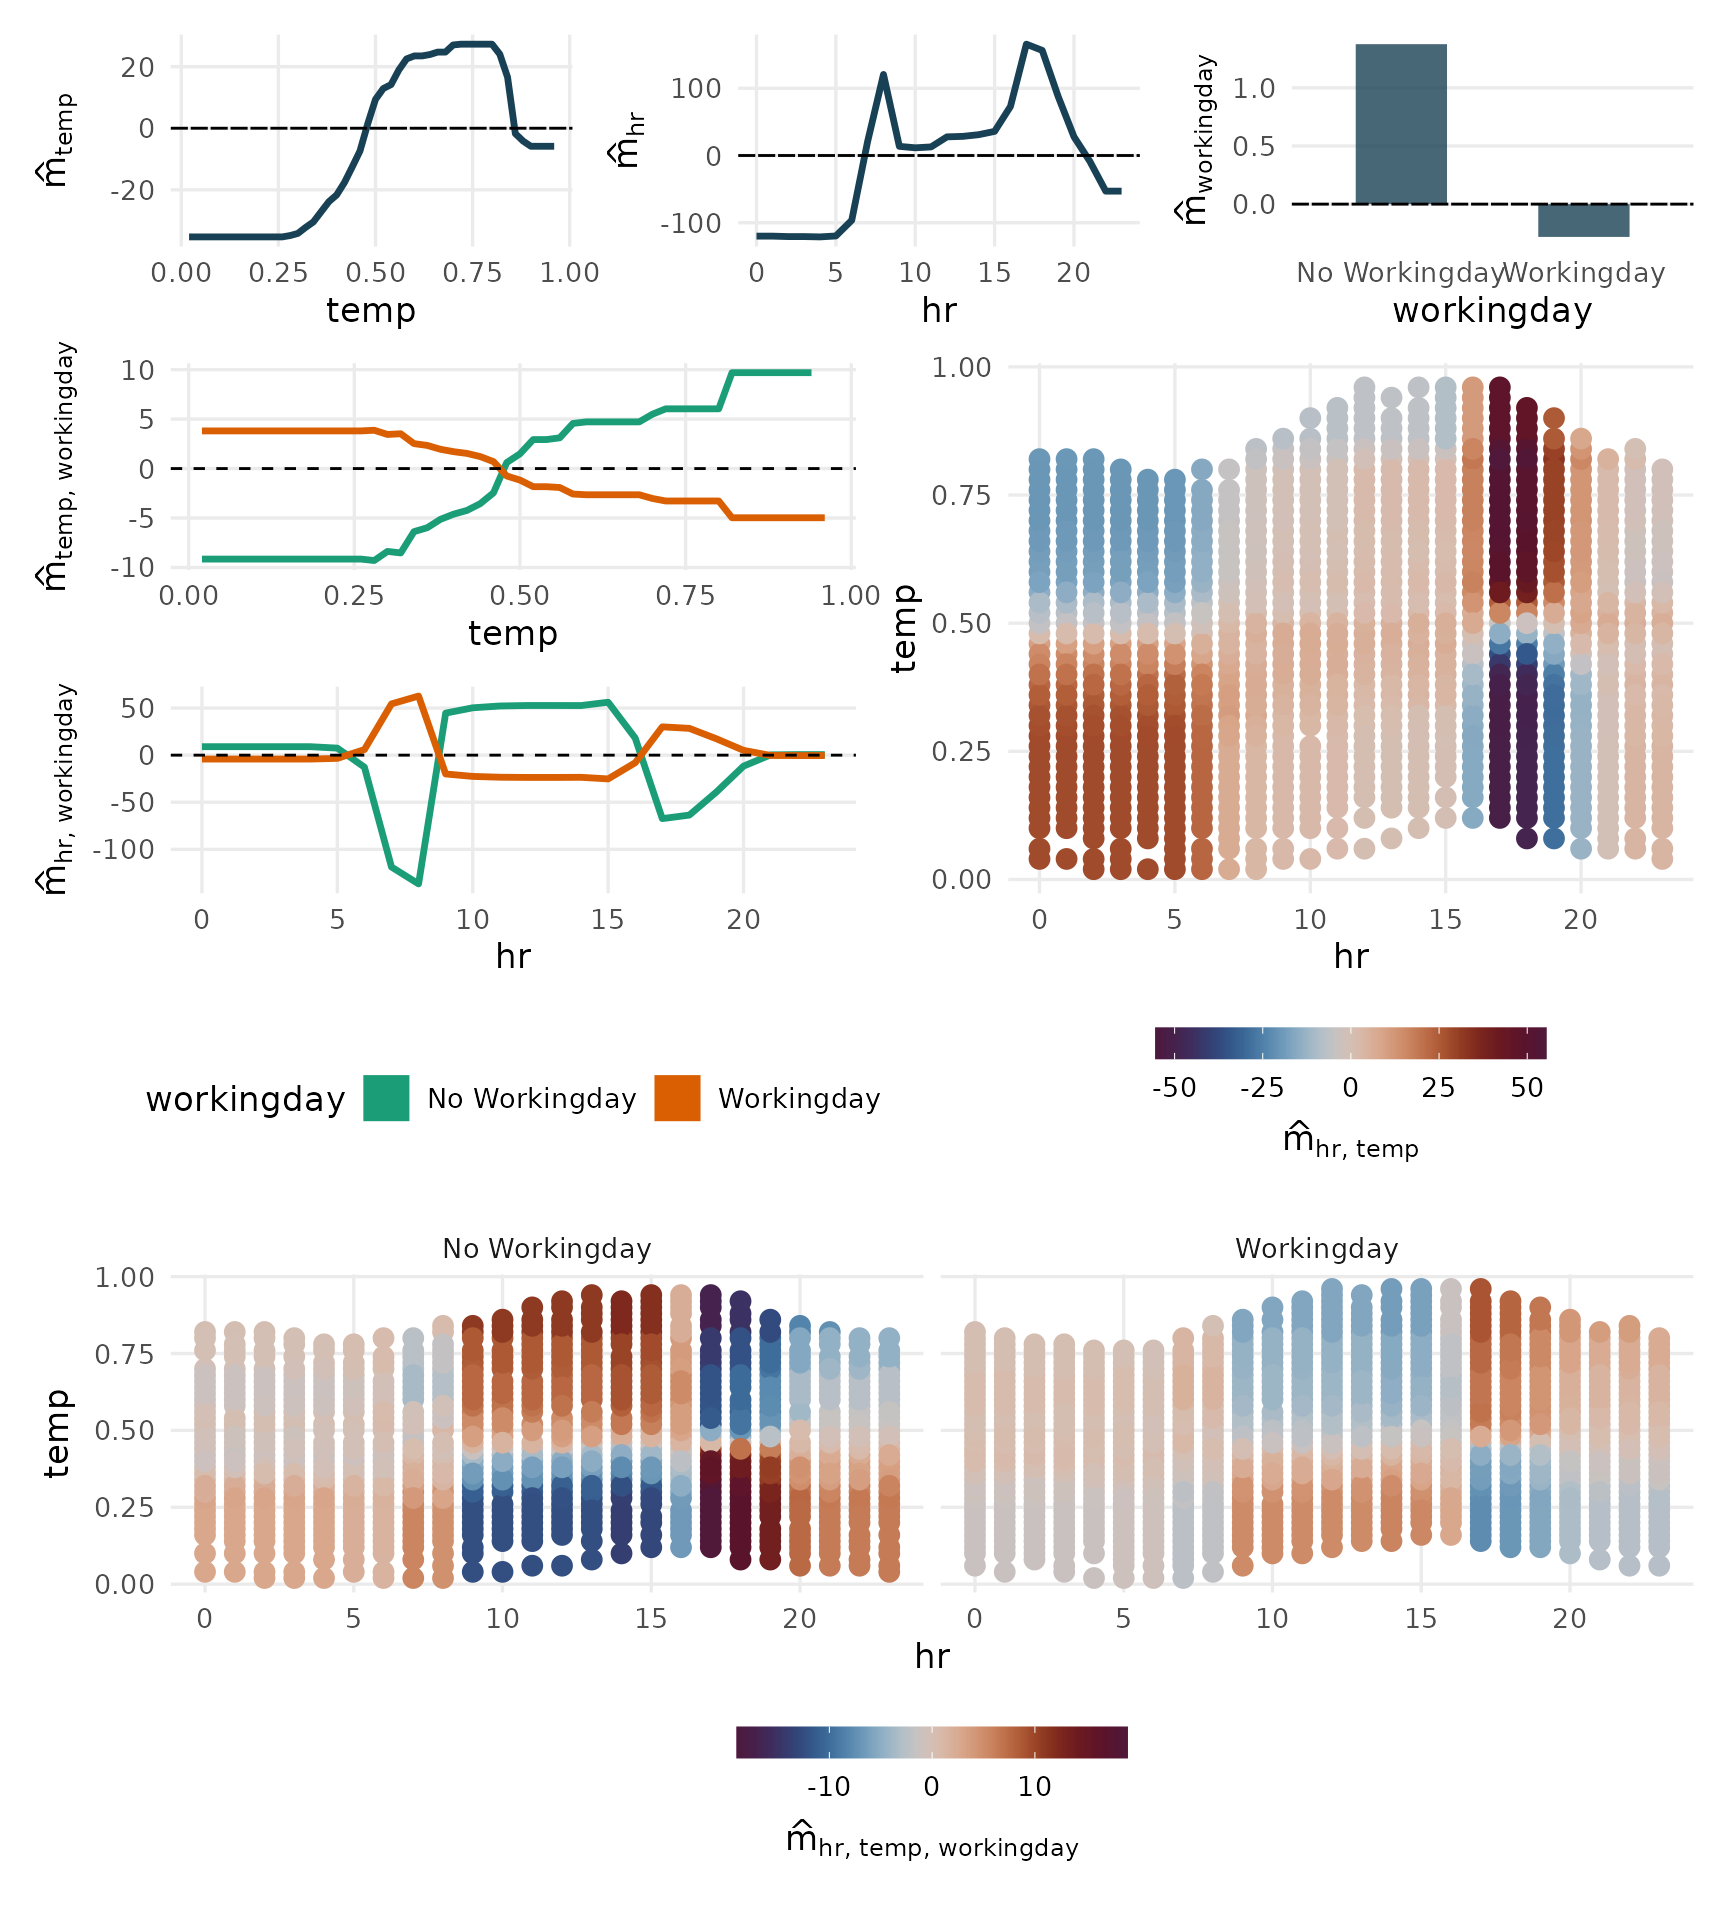
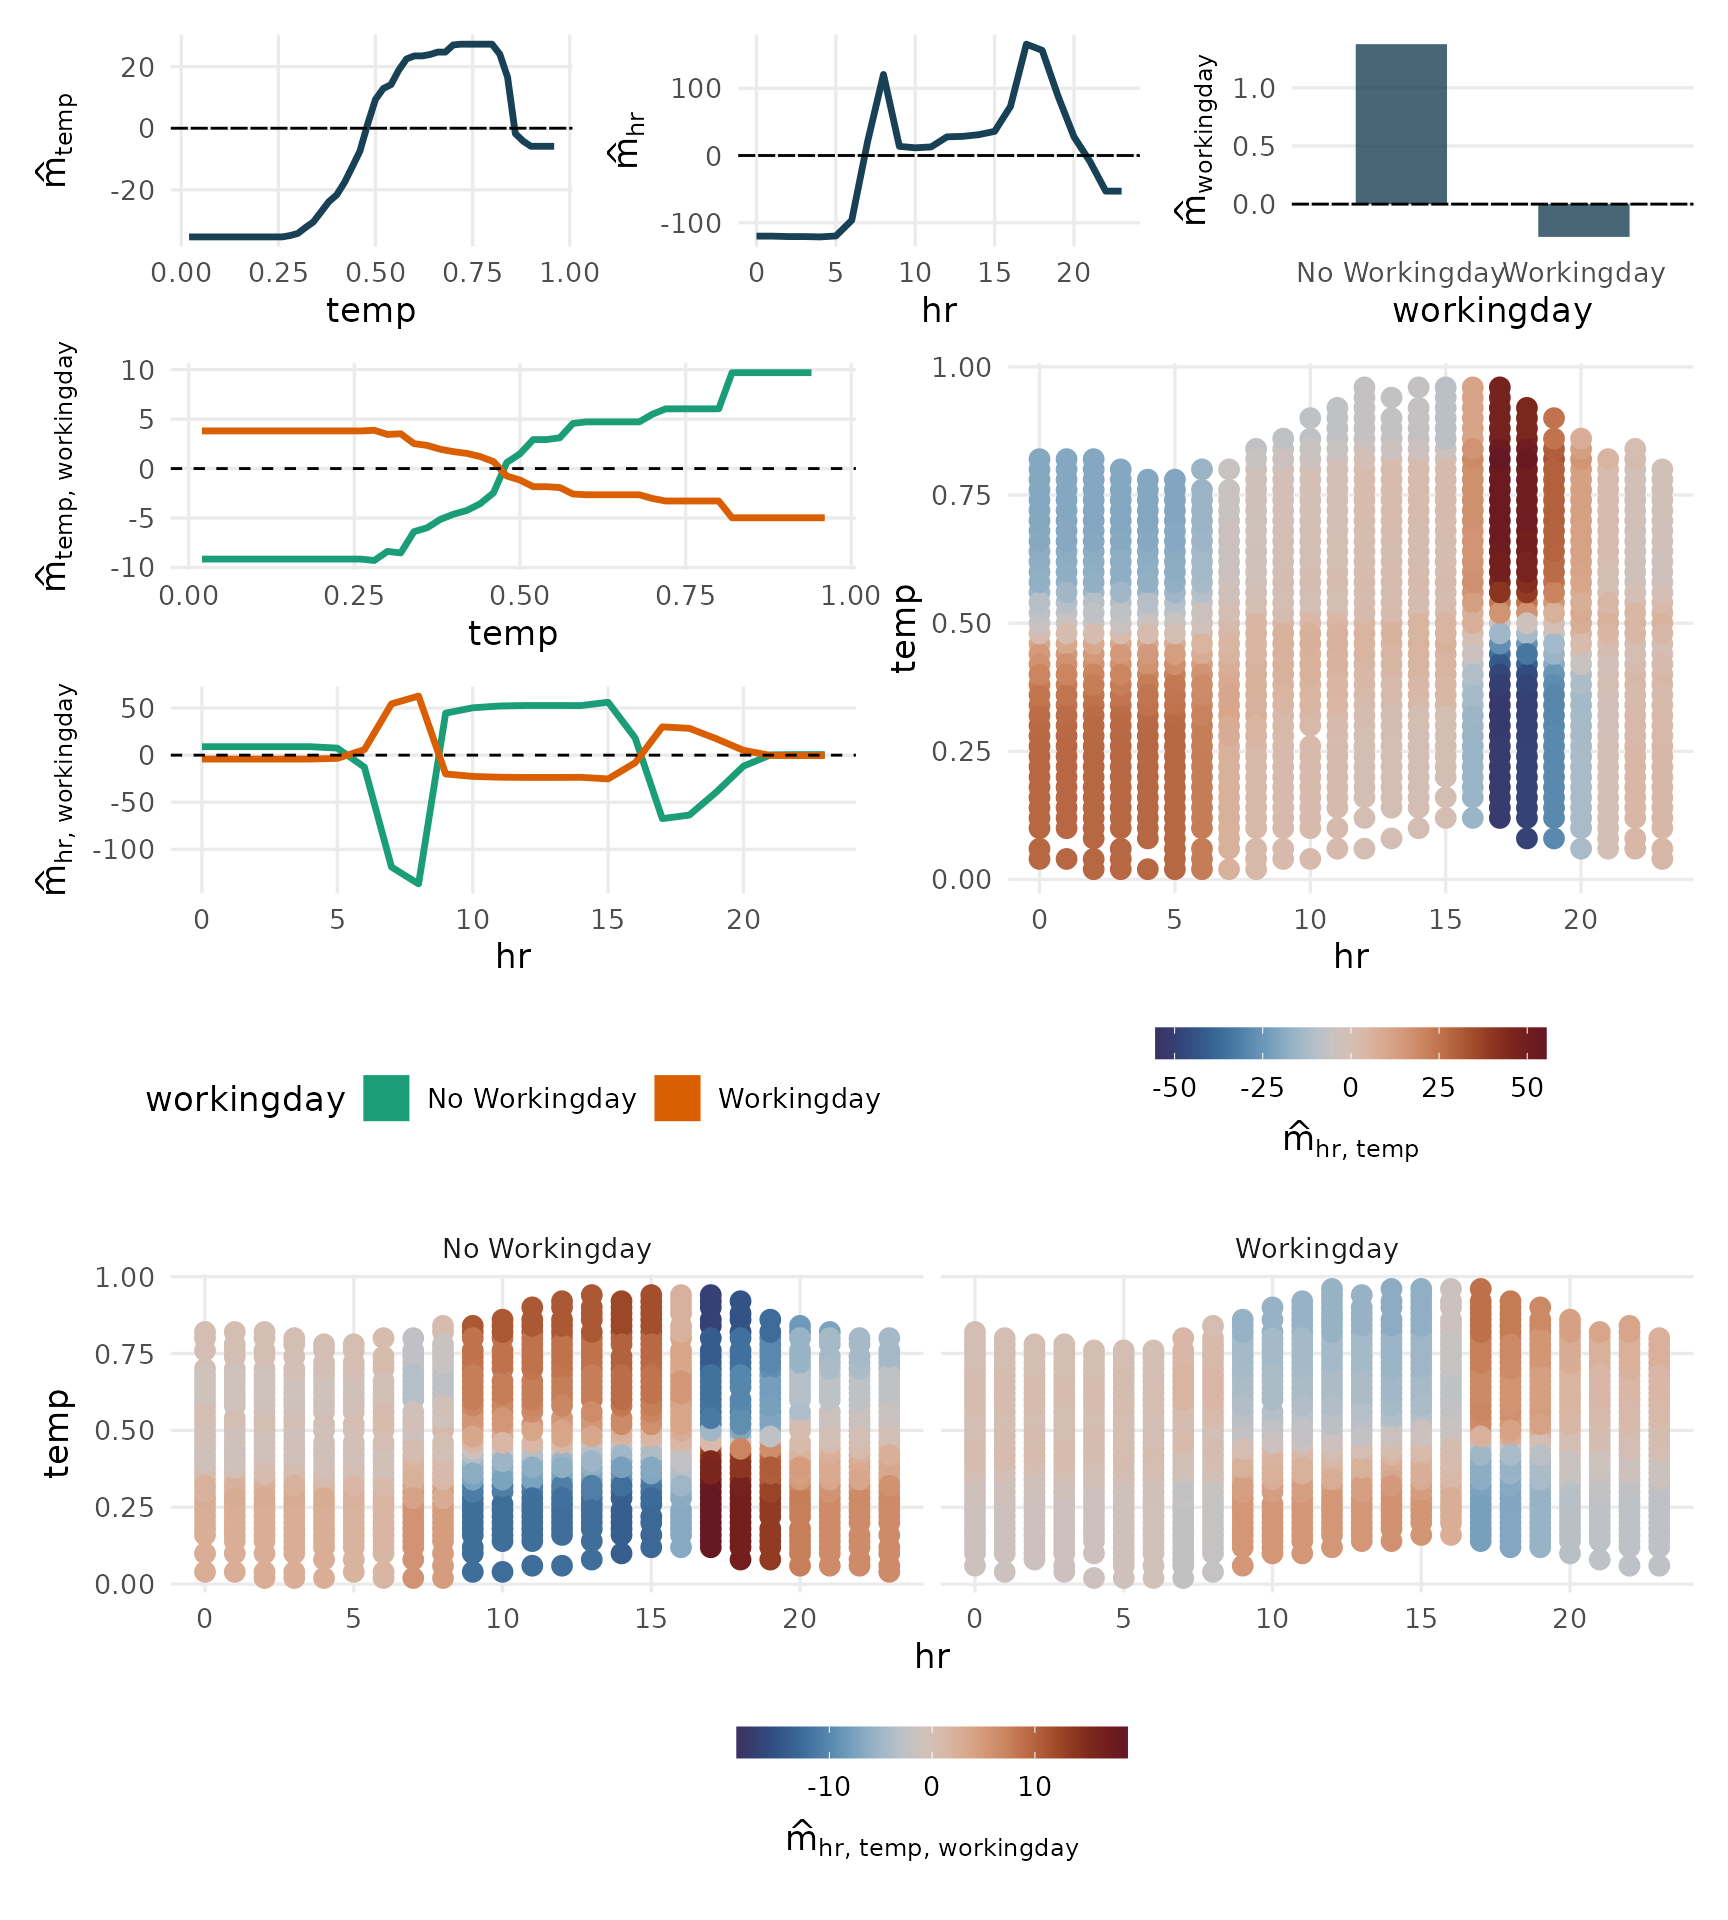
Deploying to gh-pages from @ PlantedML/glex@3e5d857b4093a00f2af9e4df74f8b49958bfc855 🚀

diff --git a/reference/glex.html b/reference/glex.html
@@ -132,11 +132,11 @@ with <code>:</code> separating interaction terms as one would specify in a <code
 <span class="r-in"><span><span class="op">}</span></span></span>
 <span class="r-out co"><span class="r-pr">#&gt;</span> List of 3</span>
 <span class="r-out co"><span class="r-pr">#&gt;</span>  $ m        :Classes ‘data.table’ and 'data.frame':	6 obs. of  55 variables:</span>
-<span class="r-out co"><span class="r-pr">#&gt;</span>   ..$ cyl      : num [1:6] 1.154 1.154 -0.567 -0.383 -0.567 ...</span>
-<span class="r-out co"><span class="r-pr">#&gt;</span>   ..$ disp     : num [1:6] 0.311 2.124 -0.93 0.343 -0.748 ...</span>
-<span class="r-out co"><span class="r-pr">#&gt;</span>   ..$ hp       : num [1:6] 2.627 0.533 -2.537 -0.545 -2.537 ...</span>
-<span class="r-out co"><span class="r-pr">#&gt;</span>   ..$ drat     : num [1:6] 2.2204 -0.1443 2.2204 -0.0938 -0.0938 ...</span>
-<span class="r-out co"><span class="r-pr">#&gt;</span>   ..$ wt       : num [1:6] 2.171 2.014 0.528 0.51 -0.632 ...</span>
+<span class="r-out co"><span class="r-pr">#&gt;</span>   ..$ cyl      : num [1:6] 0.867 0.867 -0.473 -0.383 -0.473 ...</span>
+<span class="r-out co"><span class="r-pr">#&gt;</span>   ..$ disp     : num [1:6] 0.819 2.824 -1.065 0.524 -0.813 ...</span>
+<span class="r-out co"><span class="r-pr">#&gt;</span>   ..$ hp       : num [1:6] 2.303 0.343 -1.796 -0.374 -1.796 ...</span>
+<span class="r-out co"><span class="r-pr">#&gt;</span>   ..$ drat     : num [1:6] 0.9849 -0.13081 0.9849 -0.00228 -0.00228 ...</span>
+<span class="r-out co"><span class="r-pr">#&gt;</span>   ..$ wt       : num [1:6] 3.151 3.049 0.38 0.438 -1.017 ...</span>
 <span class="r-out co"><span class="r-pr">#&gt;</span>   .. [list output truncated]</span>
 <span class="r-out co"><span class="r-pr">#&gt;</span>   ..- attr(*, ".internal.selfref")=&lt;externalptr&gt; </span>
 <span class="r-out co"><span class="r-pr">#&gt;</span>  $ intercept: num 20.1</span>

diff --git a/reference/print.glex.html b/reference/print.glex.html
@@ -91,7 +91,7 @@ This function wraps <code><a href="https://rdrr.io/r/utils/str.html" class="exte
 <span class="r-in"><span><span class="fu"><a href="glex.html">glex</a></span><span class="op">(</span><span class="va">rp</span>, <span class="va">mtcars</span><span class="op">[</span><span class="fl">27</span><span class="op">:</span><span class="fl">32</span>, <span class="op">]</span><span class="op">)</span></span></span>
 <span class="r-in"><span><span class="op">}</span></span></span>
 <span class="r-out co"><span class="r-pr">#&gt;</span> glex object of subclass rpf_components </span>
-<span class="r-out co"><span class="r-pr">#&gt;</span> Explaining predictions of 6 observations with 6 terms:</span>
+<span class="r-out co"><span class="r-pr">#&gt;</span> Explaining predictions of 6 observations with 6 terms of up to 2 degrees</span>
 <span class="r-out co"><span class="r-pr">#&gt;</span> </span>
 <span class="r-out co"><span class="r-pr">#&gt;</span> List of 3</span>
 <span class="r-out co"><span class="r-pr">#&gt;</span>  $ m        :Classes ‘data.table’ and 'data.frame':	6 obs. of  6 variables:</span>
